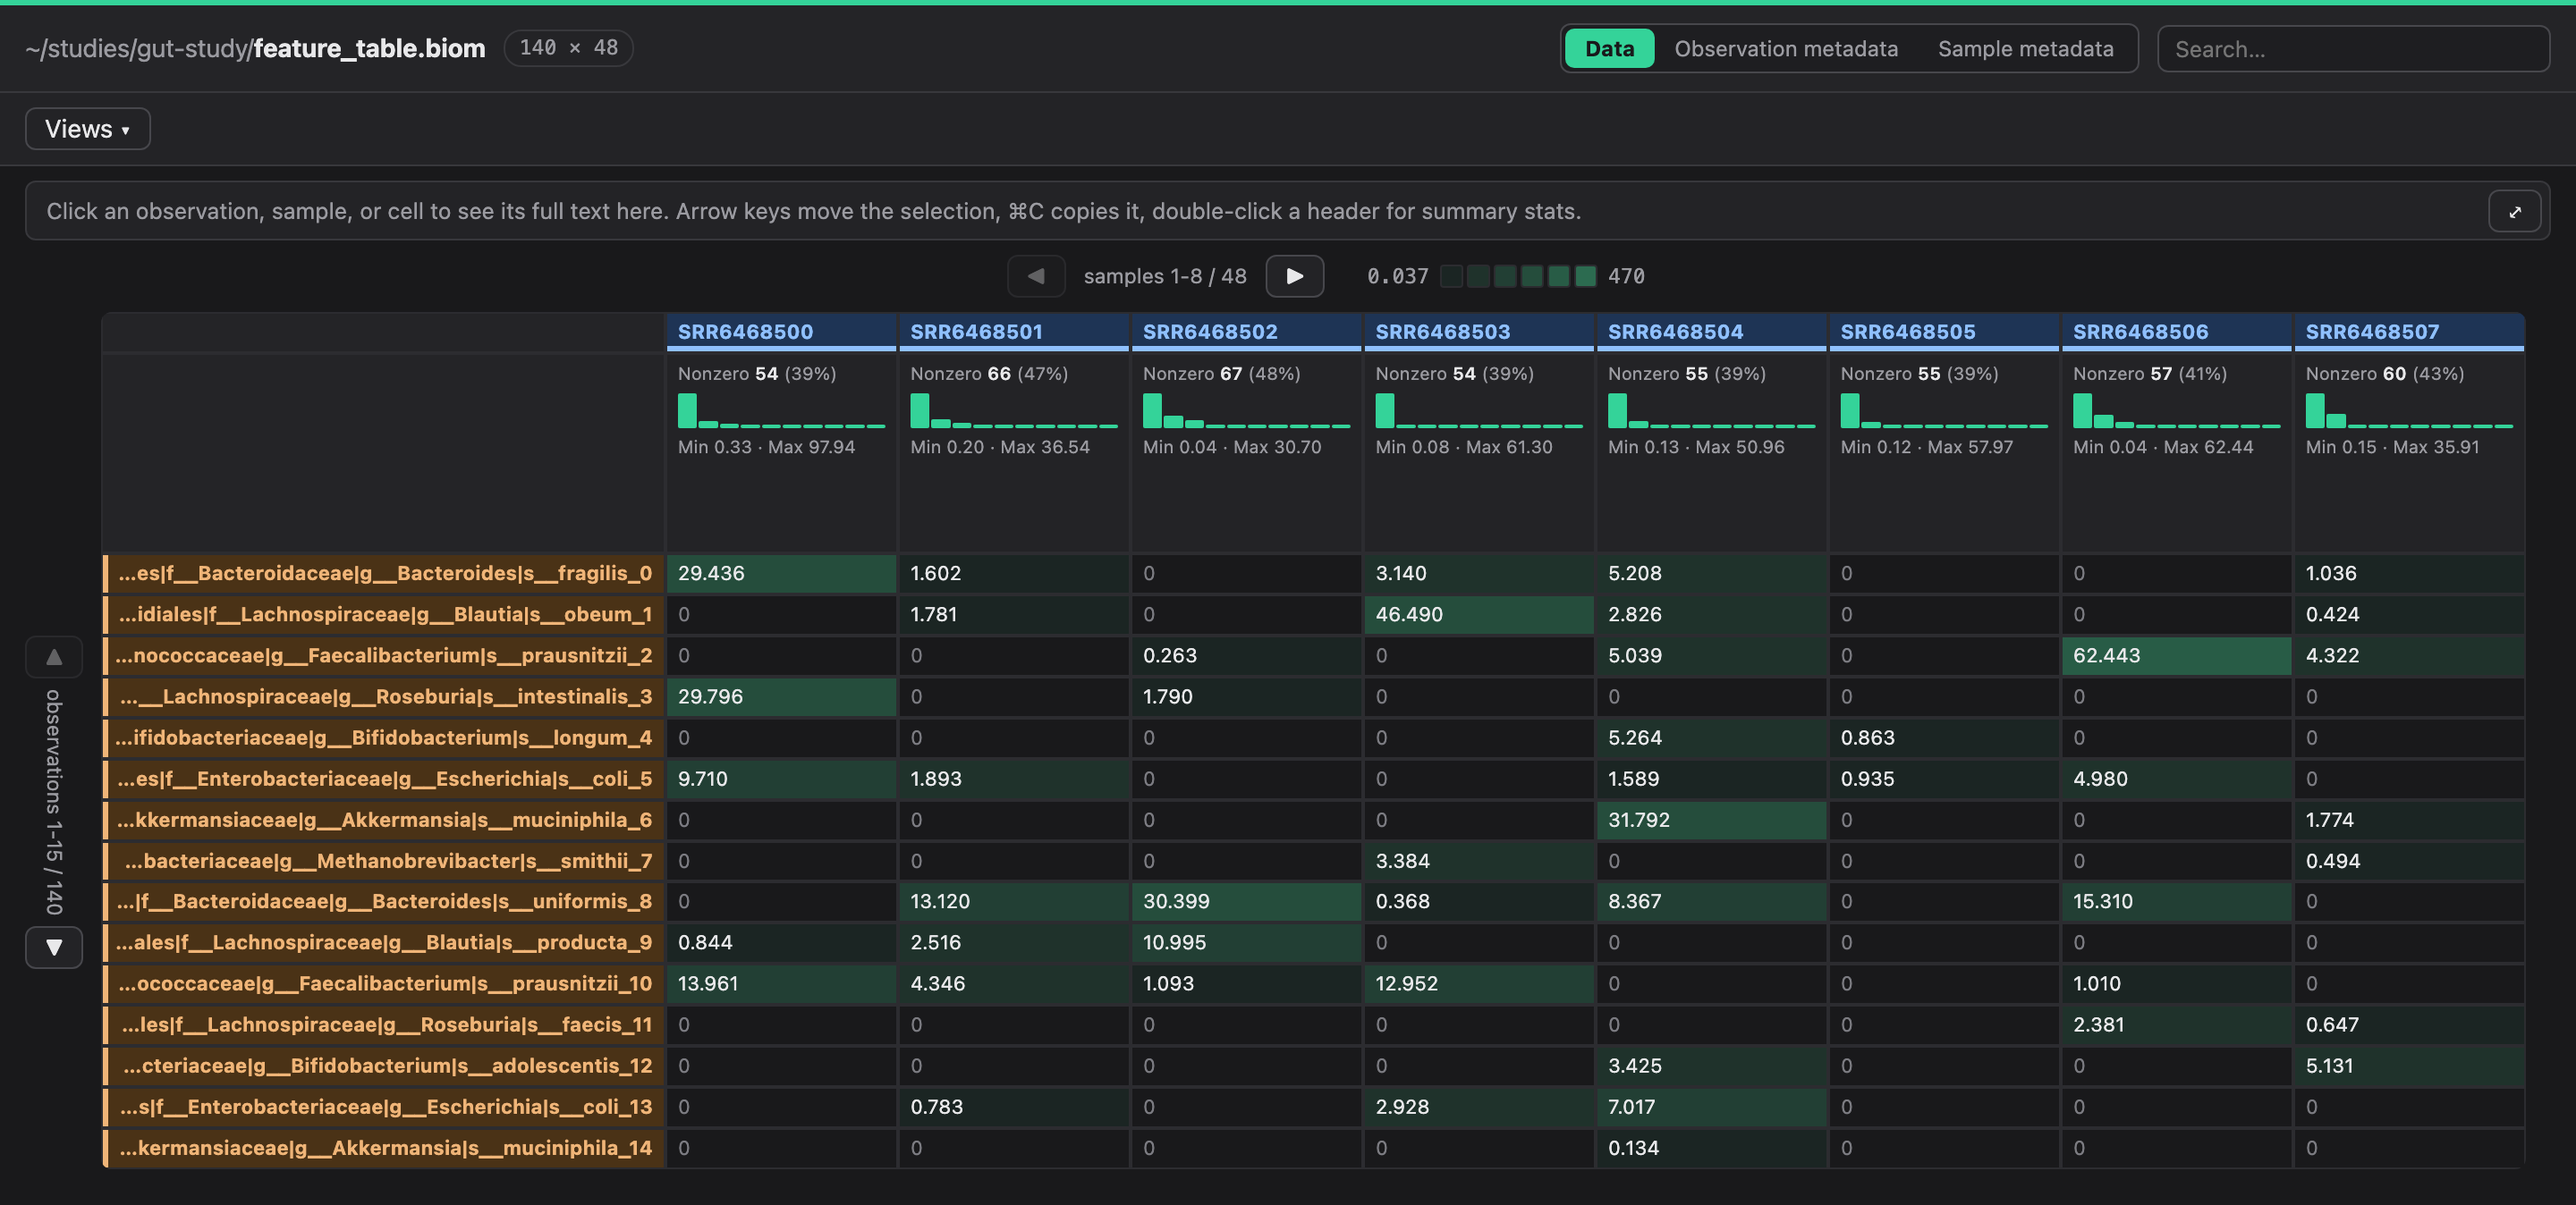
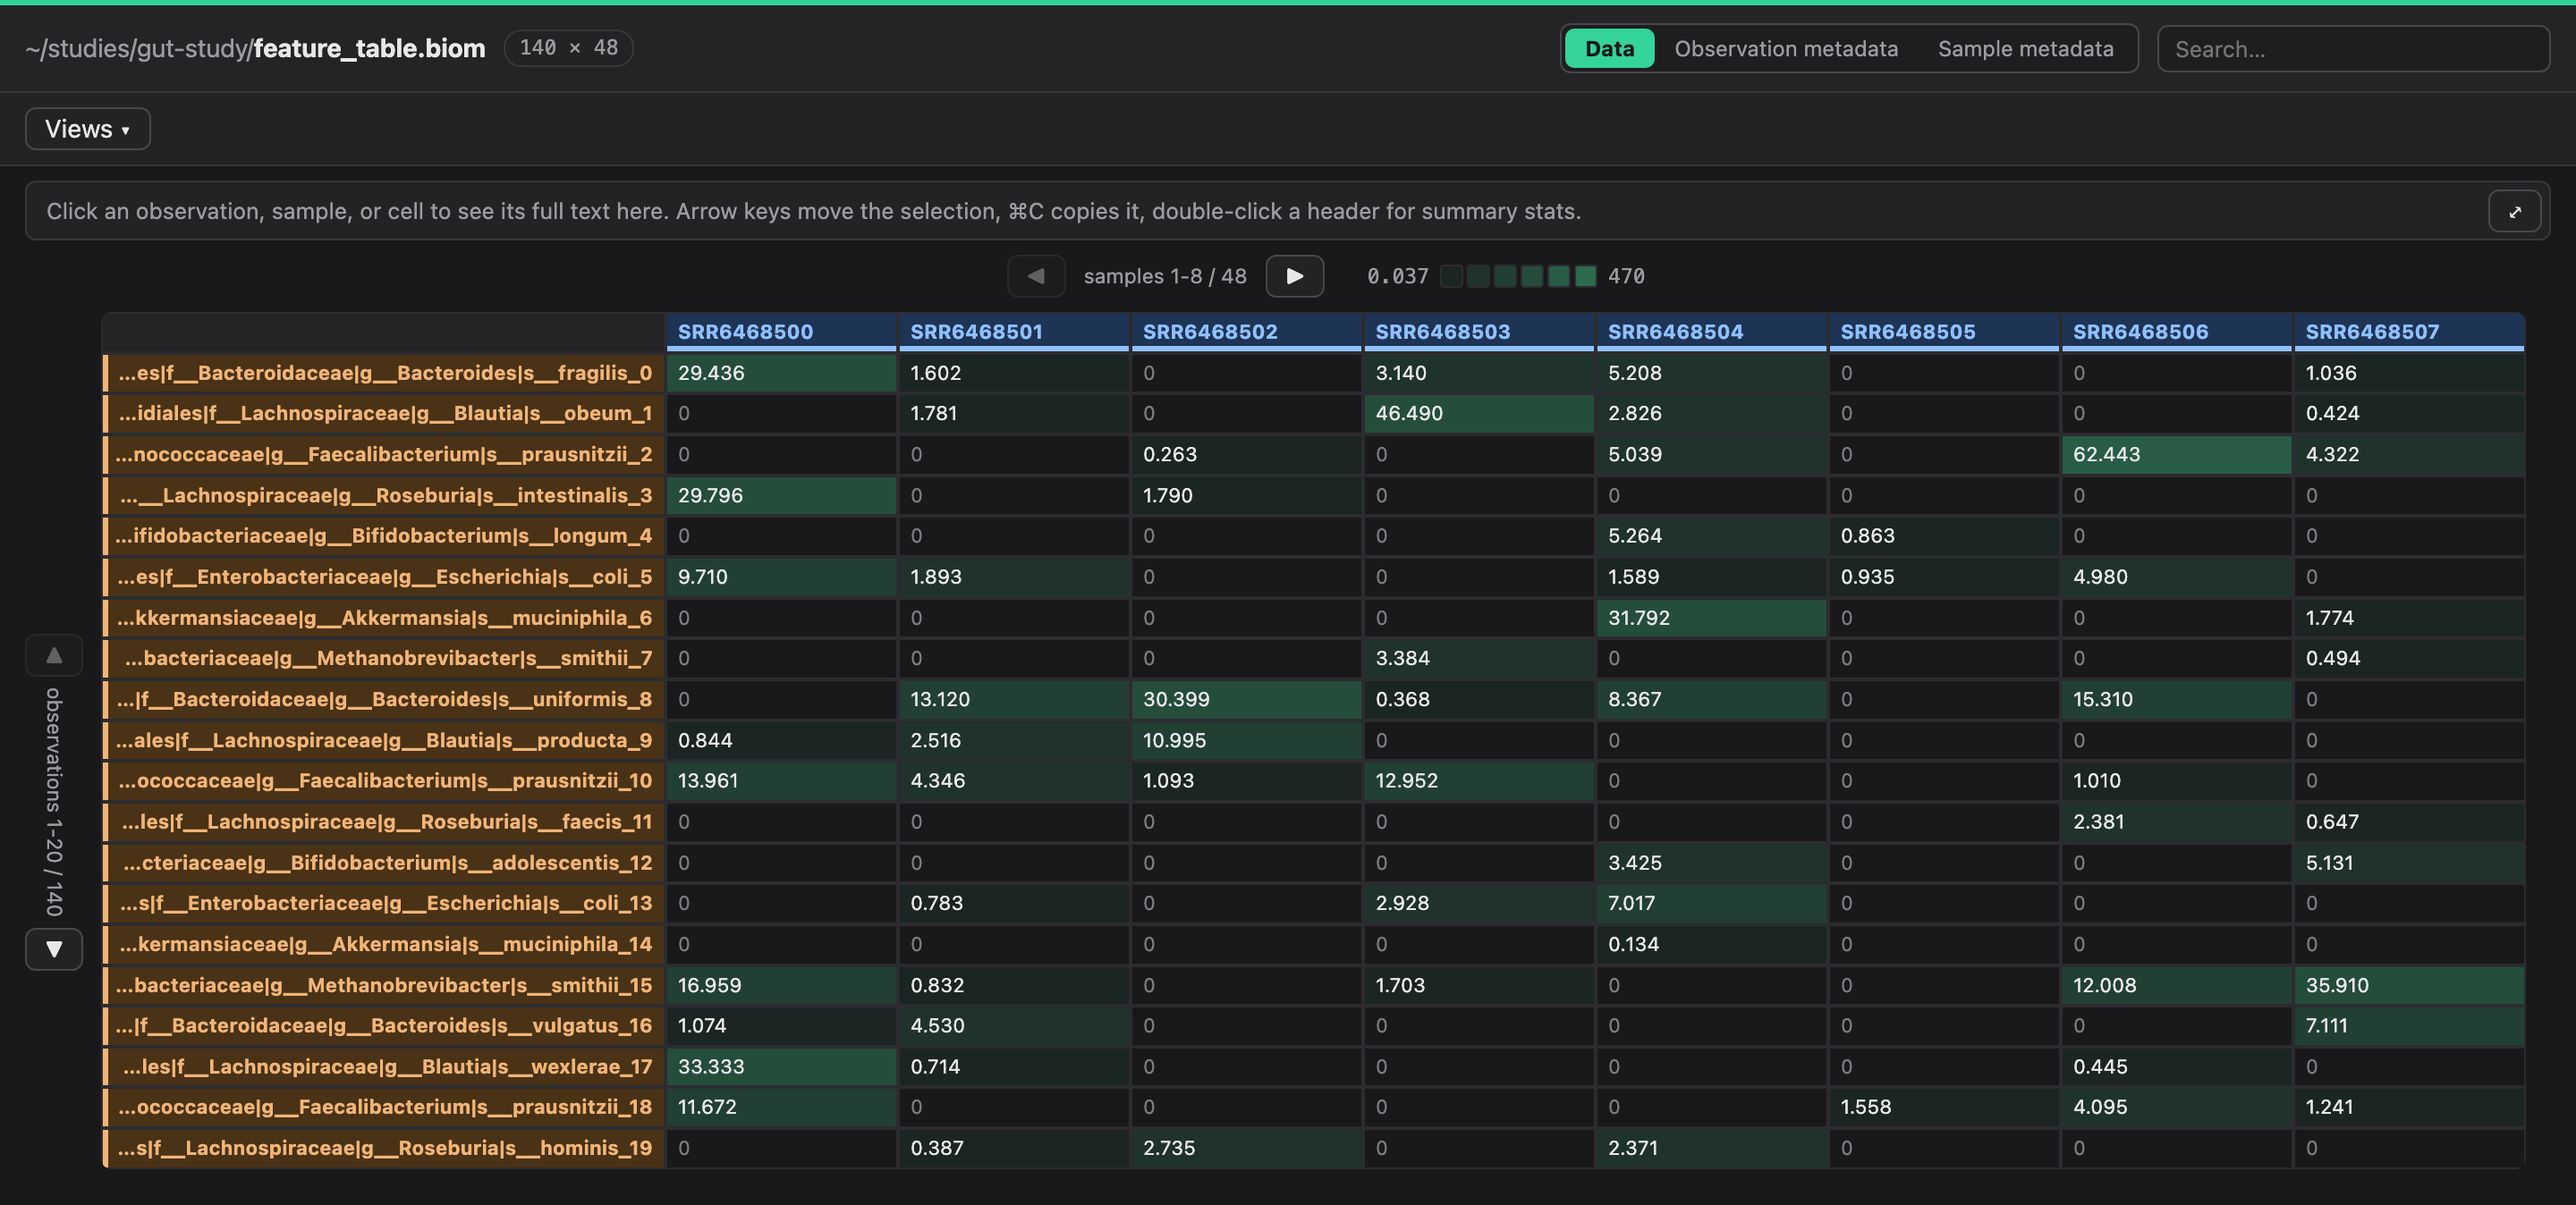
Make double-click summarize the header you clicked, not every column
Double-clicking any header in Data mode toggled a stat strip across every
column. Three problems with that. It was the only way to reach the feature --
no menu item, no button, just a gesture hinted at in the placeholder text.
Double-clicking an *observation* row gave you summaries of the eight visible
samples, the opposite axis from the thing you clicked. And per-observation
stats did not exist at all: row_summary has been implemented in the Python
API the whole time with nothing in the UI ever calling it.

Now double-click expands the one row or column you clicked, in place. An
observation gets its own summary across the samples (wiring up row_summary at
last); a sample gets its column summary; a metadata field keeps the behaviour
it already had in metadata mode. The every-column strip is still there, moved
to View -> Show All Summary Stats, since it is the heavier view and should be
asked for rather than stumbled into. The two are mutually exclusive, so
turning one on clears the other instead of stacking two stat tracks.

The single-column case reuses the existing strip track with an empty cell for
every column but the expanded one, which keeps the grid columns aligned
without a second layout path.

Switching modes now clears every expansion. Row and column positions index
different things per mode, so a position held across a switch pointed at
whatever happened to sit there.

README: the hero screenshot showed the all-columns strip, which is no longer
[…]

diff --git a/biom_viewer/web_script.py b/biom_viewer/web_script.py
@@ -27,16 +27,24 @@ let selPinnedRaw = null;
 // directly, see deleteField's cleanup) rather than a numeric index.
 let pinnedColFields = new Set();
 let selPinnedField = null;
-let summaryVisible=false;
-// In 'col' mode, double-clicking one row header expands just that field's
-// row to a stat summary (instead of summaryVisible's "expand every row").
+// Off by default and reachable only from the View menu. It used to be what
+// double-clicking any header did, which meant the expensive, every-column
+// view was the thing you got by accident while the single summary -- the one
+// you actually asked for by clicking that one header -- was unreachable.
+let summaryAll=false;
+// Double-clicking one row header expands just that row to a stat summary:
+// a metadata field in 'col' mode, an observation everywhere else.
 let expandedFieldRow=null;
+// Same, for a single column. Only meaningful where the columns are samples
+// (data mode) or observation-metadata fields ('row' mode); 'col' mode puts
+// its stats on the rows instead, via expandedFieldRow.
+let expandedCol=null;
 // Pinned fields live outside the paged position space expandedFieldRow
 // indexes into (see colFieldsForPaging), so their own double-click expand
 // needs a name-keyed twin instead of a position index. Mutually exclusive
 // with expandedFieldRow -- only one field row is ever expanded at a time.
 let expandedPinnedField=null;
-function anyFieldRowExpanded(){ return stripOnRows() || (mode==='col' && (expandedFieldRow!=null || expandedPinnedField!=null)); }
+function anyFieldRowExpanded(){ return stripOnRows() || expandedFieldRow!=null || expandedPinnedField!=null; }
 // Expanding/collapsing a row changes rowsPerPage() (the expanded row eats
 // extra height budget), which shifts which fields "page N" covers -- so the
 // clicked row can silently scroll off the page it was just clicked on.
@@ -45,11 +53,24 @@ function anyFieldRowExpanded(){ return stripOnRows() || (mode==='col' && (expand
 function toggleFieldRow(r){
   expandedFieldRow = (expandedFieldRow===r) ? null : r;
   expandedPinnedField = null;
+  expandedCol = null;
   computeFit();
   const maxPage = Math.max(0, Math.ceil(rowsTotal()/rowsPerPage()) - 1);
   rowPage = Math.min(Math.floor(r/rowsPerPage()), maxPage);
   render();
 }
+// Expanding a column adds the stat track above the grid, which shrinks
+// rowsPerPage() the same way an expanded row does -- clamp rowPage so the
+// view can't be left pointing past the last page.
+function toggleCol(c){
+  expandedCol = (expandedCol===c) ? null : c;
+  expandedFieldRow = null;
+  expandedPinnedField = null;
+  computeFit();
+  rowPage = Math.min(rowPage, Math.max(0, Math.ceil(rowsTotal()/rowsPerPage()) - 1));
+  render();
+}
+
 // Same idea for a frozen field row -- it's always visible (top of the grid,
 // independent of rowPage), so there's no row to re-center on, just a fit
 // recompute since rowsPerPage() shrinks to make room for the tall track.
@@ -156,16 +177,22 @@ function statRowH(){
 // list is what gets summarized on the row side, because it's the only case
 // where the row axis is small (bounded by field count, not by taxa/sample
 // count) — tall rows are only affordable there.
-function stripOnRows(){ return summaryVisible && mode==='col'; }
-function stripOnCols(){ return summaryVisible && mode!=='col'; }
+function stripOnRows(){ return summaryAll && mode==='col'; }
+// The stat track above the columns is needed both for "all columns" and for
+// a single expanded one -- the row exists either way, it is just mostly
+// empty in the single case.
+function stripOnCols(){ return mode!=='col' && (summaryAll || expandedCol!=null); }
 
 // Toggling the strip can drastically shrink rowsPerPage() (tall stat rows
 // fit far fewer per page than plain rows), so the page that used to show
 // row `centerRow` may no longer be page 0. Recompute fit first, then land
 // on whichever page actually contains centerRow — otherwise the view jumps
 // back to the top of the list instead of staying on what was clicked.
-function toggleSummary(centerRow){
-  summaryVisible = !summaryVisible;
+function toggleSummaryAll(centerRow){
+  summaryAll = !summaryAll;
+  // The two are alternative answers to the same question, so turning on the
+  // broad one clears the narrow one rather than stacking two stat tracks.
+  if(summaryAll){ expandedFieldRow = null; expandedPinnedField = null; expandedCol = null; }
   computeFit();
   const maxPage = Math.max(0, Math.ceil(rowsTotal()/rowsPerPage()) - 1);
   rowPage = centerRow!==undefined ? Math.floor(centerRow/rowsPerPage()) : Math.min(rowPage, maxPage);
@@ -200,7 +227,7 @@ function computeFit(){
     // the same tall track in this view (they're rendered as stat rows
     // too), so they compete for it exactly like paged fields do.
     autoRows = Math.max(1, Math.floor((availH - shortRowH) / statRowH()) - pinnedCount);
-  } else if(mode==='col' && expandedFieldRow!=null){
+  } else if(expandedFieldRow!=null){
     // One field row is expanded to a stat block; the rest stay short. This
     // reserves the budget even if the expanded row isn't on the current
     // page -- ponytail: slightly conservative, avoids a fit/page chicken-egg.
@@ -438,7 +465,7 @@ const modeBtns = [...document.querySelectorAll('#modeGroup button')];
 
 function setMode(m){
   mode = m;
-  if(m!=='col'){ expandedFieldRow = null; expandedPinnedField = null; }
+  expandedFieldRow = null; expandedPinnedField = null; expandedCol = null;
   modeBtns.forEach(x=>x.classList.toggle('active', x.dataset.m===m));
   document.body.className = 'mode-'+m;
   document.getElementById('modeTag').textContent =
@@ -1045,7 +1072,7 @@ async function render(){
   // Stretch to fill availH x availW, but never past the auto-fit page size —
   // a partial last page keeps normal-height rows instead of ballooning.
   const renderedRows = r1-r0, renderedCols = c1-c0;
-  const fieldExpandedIdx = (mode==='col' && !stripOnRows() && expandedFieldRow!=null
+  const fieldExpandedIdx = (!stripOnRows() && expandedFieldRow!=null
     && expandedFieldRow>=r0 && expandedFieldRow<r1) ? expandedFieldRow : null;
   let headerRowHPx, rowHeights = null;
   if(stripOnRows()){
@@ -1101,8 +1128,11 @@ async function render(){
 
   // Fetch stats for every visible row/column up front, in parallel, so the
   // grid below can be built synchronously once everything has arrived.
+  // null for the columns that aren't expanded -- the track still needs a
+  // cell per column to keep the grid aligned, just an empty one.
   const colStats = stripOnCols()
-    ? await Promise.all(Array.from({length: renderedCols}, (_, k) => colStatsFetch(c0+k)))
+    ? await Promise.all(Array.from({length: renderedCols}, (_, k) =>
+        (summaryAll || c0+k===expandedCol) ? colStatsFetch(c0+k) : null))
     : null;
   const rowStats = stripOnRows()
     ? await Promise.all(Array.from({length: renderedRows}, (_, k) => window.pywebview.api.field_summary('sample', colFieldAt(r0+k), visSample)))
@@ -1113,7 +1143,7 @@ async function render(){
     ? await Promise.all(pinnedFieldsOrdered.map(f => window.pywebview.api.field_summary('sample', f, visSample)))
     : null;
   const fieldExpandedStat = fieldExpandedIdx!=null
-    ? await window.pywebview.api.field_summary('sample', colFieldAt(fieldExpandedIdx), visSample)
+    ? await rowStatsFetch(fieldExpandedIdx)
     : null;
   const pinnedFieldExpandedStat = (expandedPinnedField!=null && !stripOnRows())
     ? await window.pywebview.api.field_summary('sample', expandedPinnedField, visSample)
@@ -1155,13 +1185,13 @@ async function render(){
       showSelected(label);
       applyHighlight();
     });
-    h.addEventListener('dblclick', ()=>{ toggleSummary(); });
+    h.addEventListener('dblclick', ()=>{ toggleCol(c); });
     grid.appendChild(h);
   }
   if(stripOnCols()){
     grid.appendChild(fillerCell());
     colStats.forEach((s, i) => {
-      const cell = statCell(s, colLabel(c0 + i));
+      const cell = s ? statCell(s, colLabel(c0 + i)) : emptyStatCell();
       cell.dataset.c = c0 + i; // so applyHighlight() treats it as part of its column
       grid.appendChild(cell);
     });
@@ -1291,10 +1321,7 @@ async function render(){
       showSelected(label);
       applyHighlight();
     });
-    rh.addEventListener('dblclick', ()=>{
-      if(mode==='col') toggleFieldRow(r);
-      else toggleSummary(r);
-    });
+    rh.addEventListener('dblclick', ()=>{ toggleFieldRow(r); });
     grid.appendChild(rh);
     for(let c=c0;c<c1;c++){
       const cell = document.createElement('div');
@@ -1464,6 +1491,15 @@ function fmtNum(v){ return Number.isInteger(v) ? String(v) : v.toFixed(2); }
 // The column axis is field-driven only in 'row' mode (observation metadata
 // fields replace samples); everywhere else it's the sample axis, unchanged
 // from data mode. Matches colLabel's own mode branch.
+// The row axis is field-driven only in 'col' mode; everywhere else a row is
+// an observation, and its summary runs across the samples -- which is what
+// row_summary has always computed, though until now nothing ever called it.
+function rowStatsFetch(r){
+  return mode==='col'
+    ? window.pywebview.api.field_summary('sample', colFieldAt(r), visSample)
+    : window.pywebview.api.row_summary(obsAt(r));
+}
+
 function colStatsFetch(j){
   return mode==='row'
     ? window.pywebview.api.field_summary('observation', rowFields[j], visObs)
@@ -2375,6 +2411,14 @@ function statCell(s, label){
   cell.className = 'cell stat-cell';
   cell.innerHTML = statCellHtml(s);
   wireStatOther(cell, s, label);
+  return cell;
+}
+
+// Holds a column's place in the stat track without claiming to summarize
+// anything -- used for every column except the expanded one.
+function emptyStatCell(){
+  const cell = document.createElement('div');
+  cell.className = 'cell stat-cell';
   return cell;
 }
 

diff --git a/biom_viewer/app.py b/biom_viewer/app.py
@@ -831,6 +831,11 @@ def main():
             MenuAction("Decrease Font Size", js("setFontSize(fontSize-1)")),
             MenuSeparator(),
             MenuAction("Expand Selected Cell…", js("openCellModal()")),
+            MenuSeparator(),
+            # Double-clicking a header expands that one row/column; this is
+            # the every-column version, which has no gesture of its own on
+            # purpose -- it is the heavier view, so it should be asked for.
+            MenuAction("Show All Summary Stats", js("toggleSummaryAll()")),
         ]),
     ]
     webview.start(menu=menu)

diff --git a/README.md b/README.md
@@ -68,6 +68,17 @@ at a time or all at once.
   <img src="docs/screenshot-filters.png" width="100%" alt="The table filtered to non-control samples with calprotectin at or above 100, sorted by genus, with one removable chip per active sort and filter">
 </p>
 
+### Summary statistics, for exactly what you asked about
+
+Double-click any observation or sample header and just that one expands in
+place — nonzero count, spread, min and max, or a top-values breakdown for a
+categorical metadata field. **View → Show All Summary Stats** turns it on for
+every column at once when you want to compare across samples.
+
+<p align="center">
+  <img src="docs/screenshot-stats.png" width="100%" alt="A single observation row expanded in place to show its summary: nonzero count and percentage, a distribution histogram, and its minimum and maximum abundance">
+</p>
+
 ### Search across everything at once
 
 ⌘F searches observation IDs, sample IDs, metadata field names and metadata
@@ -80,8 +91,6 @@ highlighted in place.
 
 ### And the rest
 
-- **Summary statistics** — double-click any header for a histogram, min/max,
-  distinct counts and top values
 - **Saved views** — name a set of filters, sorts and pins, and come back to it
 - **Undo/redo** (⌘Z / ⇧⌘Z) across every edit, each step naming what it undid
 - **Find & replace** across metadata values (⌘R)
